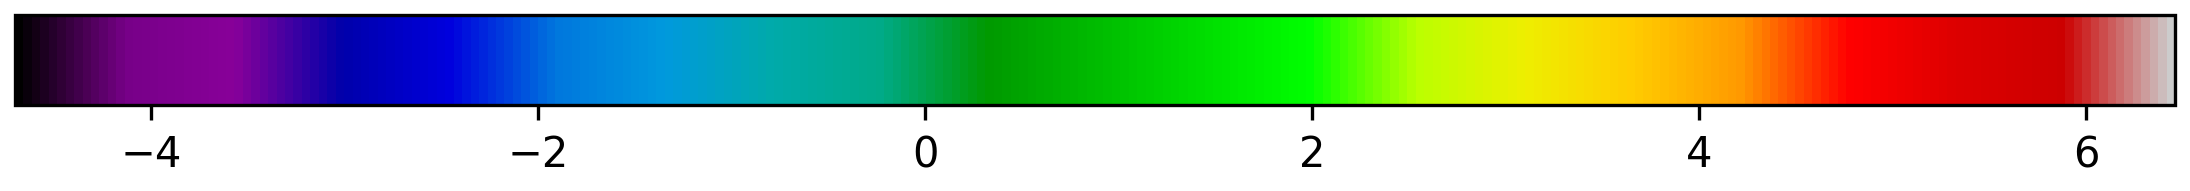
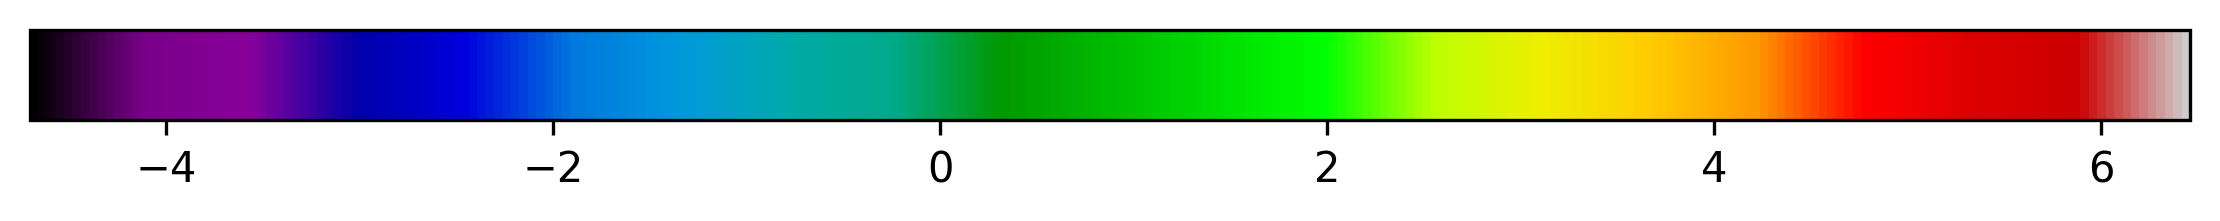
colorbar

diff --git a/style.css b/style.css
@@ -191,16 +191,18 @@ body, html {
 
 
 #colorbar-container {
-    display: none; /* Caché par défaut */
     text-align: center;
     width: 100%; /* Prend toute la largeur de la sidebar */
     margin-top: 5px;
 }
 
 #colorbar {
-    width: 90%; /* Ajuste la largeur pour ne pas toucher les bords */
-    max-width: 140px; /* Taille max */
+    width: 170%; /* Ajuste la largeur pour ne pas toucher les bords */
+    max-width: 400px; /* Taille max */
     height: auto; /* Garde les proportions */
-    display: block;
     margin: 0 auto;
+    display: block;
+
+    clip-path: inset(0 0 0 40%);
+    margin-left: -70%;
 }
